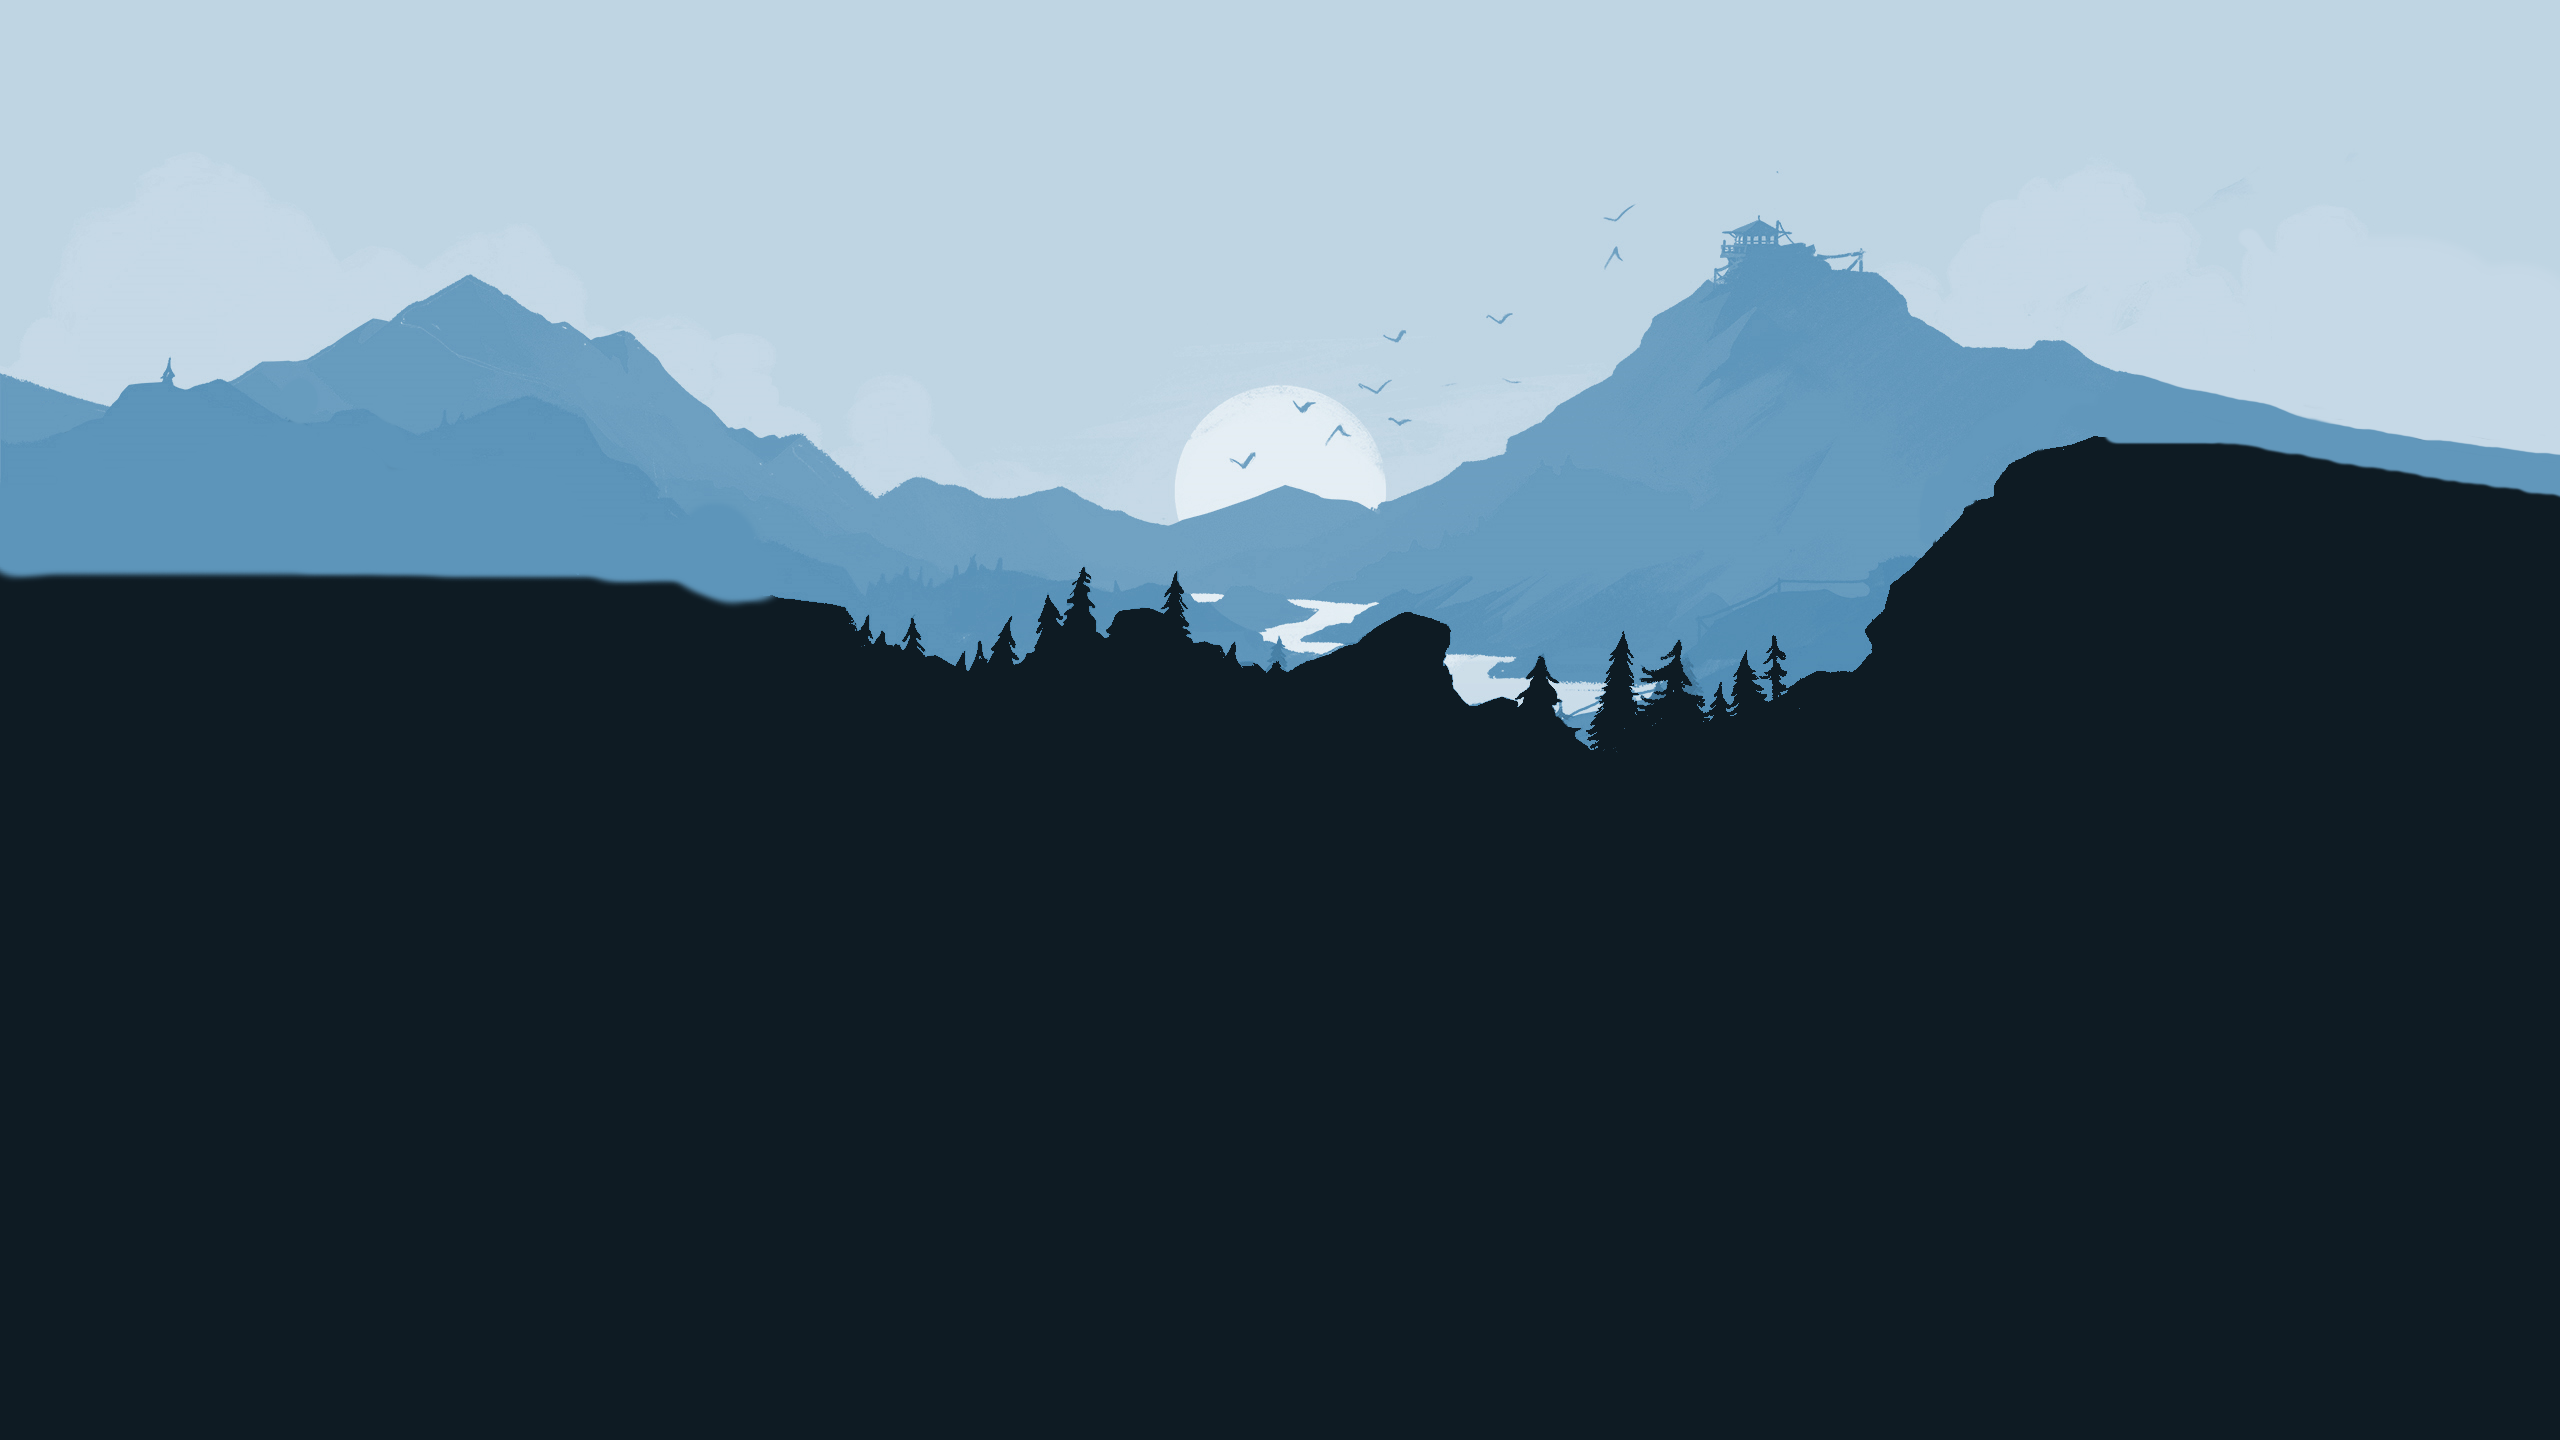
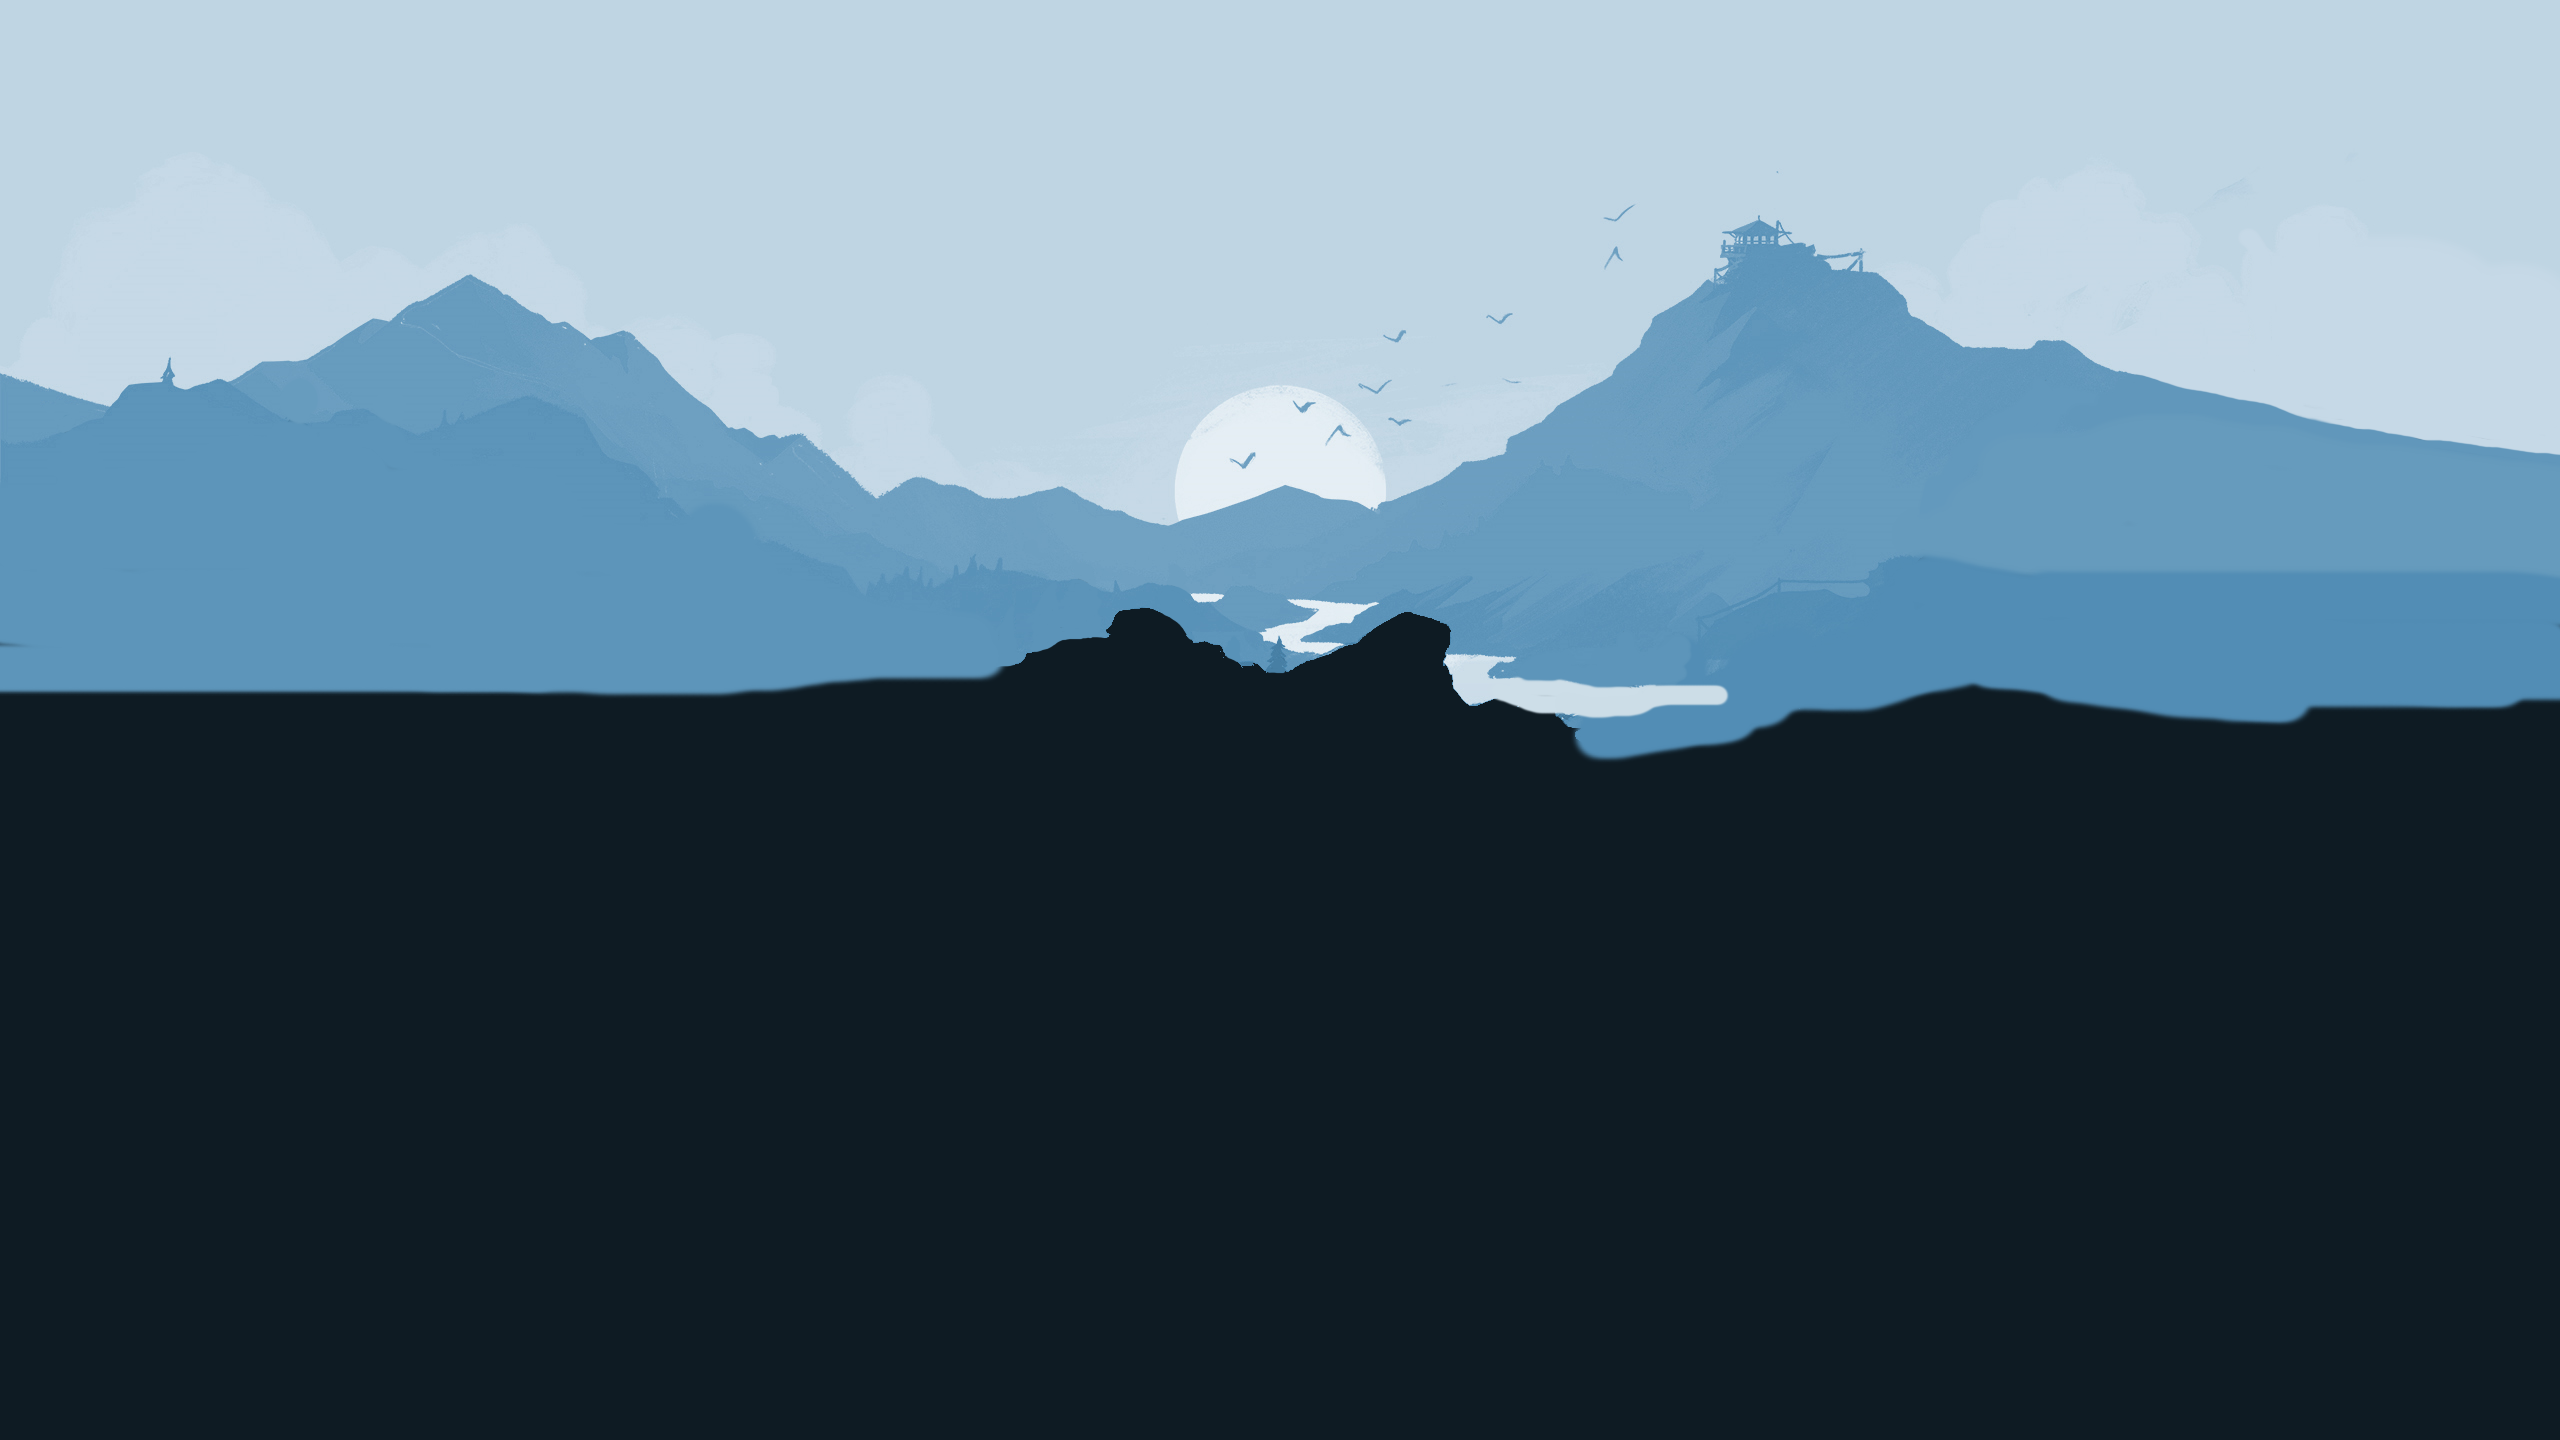
Improve parallax effect and update background images
Refactored the parallax scroll script for better scalability and maintainability. Updated CSS for responsive handling of parallax layers and improved background sizing. Replaced forest background images for layers 2, 3, and 4, and removed an unused image.

Changed region(s): [[0.5938, 0.2812, 1.0, 0.5312], [0.0, 0.375, 0.4688, 0.5]]

diff --git a/_layouts/default.html b/_layouts/default.html
@@ -32,8 +32,6 @@
     </script>
 
     <div class="column-wrapper">
-
-    <!-- White vertical column behind content -->
     <div class="white-column"></div>
 
     <div id="container">
@@ -79,7 +77,7 @@
       });
     </script>
 
-    <script>
+    <!-- <script>
       // Simple parallax scroll effect
       window.addEventListener('scroll', function () {
         const scrollTop = window.pageYOffset;
@@ -88,6 +86,18 @@
         document.querySelector('.layer3').style.transform = `translateY(${scrollTop * -0.4}px)`;
         document.querySelector('.layer2').style.transform = `translateY(${scrollTop * -0.6}px)`;
         document.querySelector('.layer1').style.transform = `translateY(${scrollTop * -0.8}px)`;
+      });
+    </script> -->
+
+    <script>
+      window.addEventListener('scroll', function () {
+        const scrollTop = window.pageYOffset;
+        ['layer4', 'layer3', 'layer2', 'layer1'].forEach(function (layerClass, i) {
+          const layer = document.querySelector('.' + layerClass);
+          if (layer) {
+            layer.style.transform = `translateY(${scrollTop * -((i + 1) * 2)/10}px)`;
+          }
+        });
       });
     </script>
 

diff --git a/assets/css/custom.css b/assets/css/custom.css
@@ -1,3 +1,9 @@
+@media (max-width: 1024px) {
+  .parallax-layer {
+    display: none !important;
+  }
+}
+
 body {
   margin: 0;
   padding: 0;
@@ -60,11 +66,12 @@ header, footer, .pages, .page-content {
   position: fixed;
   top: 0;
   left: 0;
-  width: 100%;
-  height: 100%;
+  width: 100vw;
+  height: 100vw;
   background-position: center bottom;
   background-repeat: no-repeat;
   background-size: cover;
+  overflow: hidden;
   z-index: -10; /* behind everything else */
   pointer-events: none; /* allows interaction through them */
   will-change: transform;
